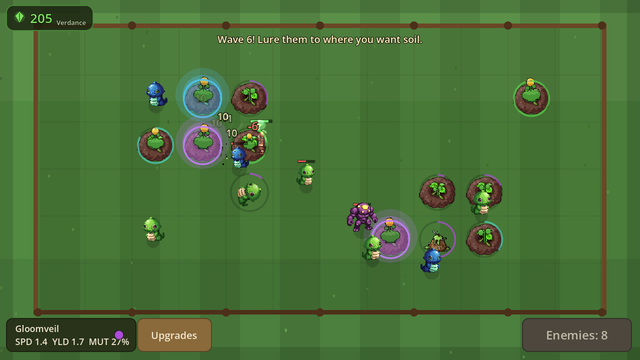
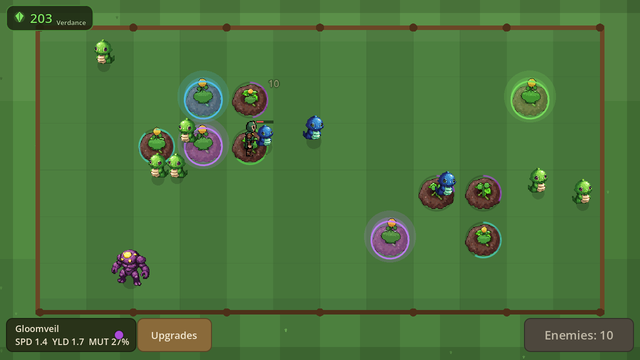
Redeploy 08-compost-quest mobile rework

diff --git a/08-compost-quest/index.html b/08-compost-quest/index.html
@@ -111,7 +111,7 @@ body {
 
 		<script src="../_engine/index.js"></script>
 		<script>
-const GODOT_CONFIG = {"args": [], "canvasResizePolicy": 2, "emscriptenPoolSize": 8, "ensureCrossOriginIsolationHeaders": true, "executable": "../_engine/index", "experimentalVK": false, "fileSizes": {"index.pck": 83144, "../_engine/index.wasm": 39509339}, "focusCanvas": true, "gdextensionLibs": [], "godotPoolSize": 4, "mainPack": "index.pck"};
+const GODOT_CONFIG = {"args": [], "canvasResizePolicy": 2, "emscriptenPoolSize": 8, "ensureCrossOriginIsolationHeaders": true, "executable": "../_engine/index", "experimentalVK": false, "fileSizes": {"index.pck": 88072, "../_engine/index.wasm": 39509339}, "focusCanvas": true, "gdextensionLibs": [], "godotPoolSize": 4, "mainPack": "index.pck"};
 const GODOT_THREADS_ENABLED = false;
 const engine = new Engine(GODOT_CONFIG);
 